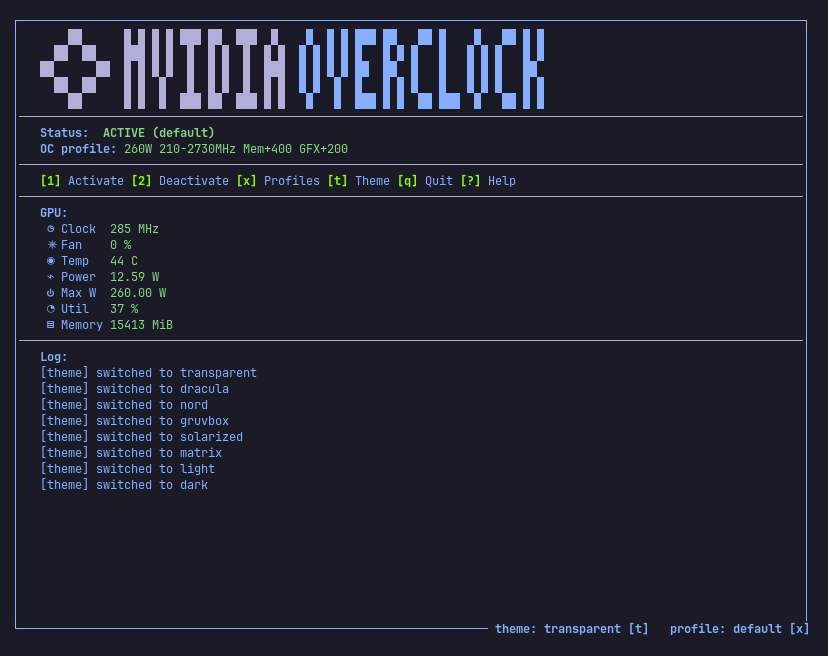
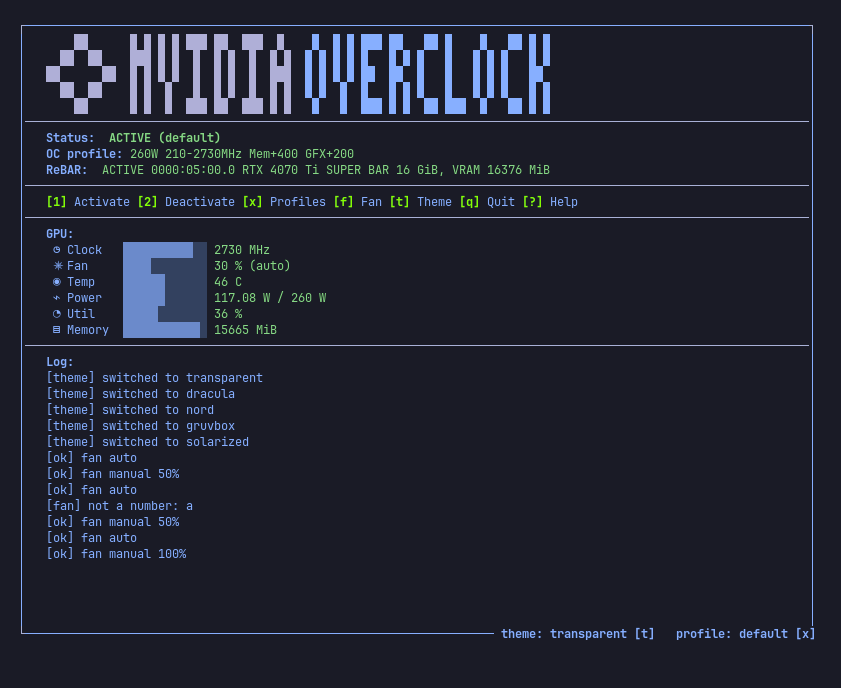
TUI: fan control via fan_control.py
- new self-contained fan_control.py (pynvml): status / set <PCT> / auto,
  applies the % to every fan NVML reports, best-effort per fan
- TUI 'f' key (sudo): prompt a % or 'auto'; fan row shows the (auto)/
  (manual) mode tag polled every 2s on the telemetry cadence
- fan_state degrades to a plain fan % when pynvml is unavailable

Changed region(s): [[0.0, 0.0305, 0.9662, 0.9146], [0.5737, 0.9146, 0.9964, 0.9756], [0.936, 0.1524, 0.9662, 0.1829]]

diff --git a/gpu_tui.py b/gpu_tui.py
@@ -9,6 +9,7 @@ Keys:
   2 or d  -> Deactivate overclock
   n       -> Define and save a new OC profile
   x       -> Select which profile activation uses
+  f       -> Set fan speed (manual %, or 'auto' to revert) — needs sudo
   t       -> Cycle theme (saved between runs)
   q       -> Quit
   ?       -> Help overlay
@@ -35,6 +36,7 @@ ACTIVATE_SCRIPT = os.path.join(_HERE, "apply_overclock.py")
 DEACTIVATE_SCRIPT = os.path.join(_HERE, "reset_overclock.py")
 STATUS_MARKER = "/tmp/gpu_oc_active"   # apply_overclock.py writes the active profile name here
 REBAR_SCRIPT = os.path.join(_HERE, "rebar_check.py")
+FAN_SCRIPT = os.path.join(_HERE, "fan_control.py")
 
 # ============================================================
 #  OC PROFILES
@@ -332,6 +334,41 @@ def prepend_log(log: str, entry: str) -> str:
     return entry if not log else entry + "\n" + log
 
 
+def get_fan_state() -> dict:
+    """Fan mode/speed from fan_control.py status (JSON on stdout).
+
+    Read-only, so it runs on the 2s telemetry cadence like nvidia-smi.
+    Returns {} when the script is missing, pynvml is absent, or the GPU is
+    unavailable — the TUI then just shows the plain fan % (no mode tag).
+    """
+    try:
+        r = subprocess.run([sys.executable, FAN_SCRIPT, "status"],
+                           capture_output=True, text=True, timeout=5)
+    except Exception:
+        return {}
+    if r.returncode != 0:
+        return {}
+    try:
+        data = json.loads(r.stdout)
+    except ValueError:
+        return {}
+    return data if isinstance(data, dict) else {}
+
+
+def set_fan_manual(pct: int) -> tuple[int, str]:
+    """fan_control.py set <PCT> — all fans to a fixed speed (needs root)."""
+    r = subprocess.run([sys.executable, FAN_SCRIPT, "set", str(pct)],
+                       capture_output=True, text=True)
+    return r.returncode, (r.stderr or r.stdout).strip()
+
+
+def set_fan_auto() -> tuple[int, str]:
+    """fan_control.py auto — all fans back to the driver's auto curve."""
+    r = subprocess.run([sys.executable, FAN_SCRIPT, "auto"],
+                       capture_output=True, text=True)
+    return r.returncode, (r.stderr or r.stdout).strip()
+
+
 # ============================================================
 #  PROFILE WIZARDS
 # ============================================================
@@ -426,6 +463,7 @@ def main(stdscr):
     TELEMETRY_MS = 2000   # how often nvidia-smi is actually called
     stats, stats_at = {}, 0.0
     prev_stats = {}   # last sample, for the bar-fill lerp
+    fan_state = {}    # fan mode from fan_control.py, refreshed with stats
     # ReBAR: BAR size is fixed at boot — query once, not per tick
     rebar = get_rebar()
 
@@ -440,6 +478,7 @@ def main(stdscr):
         if now - stats_at >= TELEMETRY_MS / 1000:
             prev_stats = stats
             stats, stats_at = get_gpu_stats(), now
+            fan_state = get_fan_state()
 
         status_word = "ACTIVE" if active else "INACTIVE"
         if active and active_name:
@@ -453,8 +492,9 @@ def main(stdscr):
                 hint = ("[q] Quit [?] Help  (read-only: sudo needed for "
                         "OC / profiles)")
             else:
-                hint = ("[1] Activate [2] Deactivate [x] Profiles "
-                        "[t] Theme [q] Quit [?] Help")
+                hint = (
+                    "[1] Activate [2] Deactivate [x] Profiles "
+                    "[f] Fan [t] Theme [q] Quit [?] Help")
 
         help_text = (
             [
@@ -464,6 +504,7 @@ def main(stdscr):
                 "  x ...... open the Profiles menu (Esc/q close)",
                 "  1-9 .... pick a profile (while the menu is open)",
                 "  d ...... delete the picked profile (menu open)",
+                "  f ...... set fan speed (a %, or 'auto' to revert); sudo",
                 "  t ...... cycle color theme",
                 "  q / Esc . quit",
                 "  Esc+Enter cancels a prompt",
@@ -584,10 +625,15 @@ def main(stdscr):
 
                 pmax = _f(stats.get("power_max"))
                 limit = "" if pmax <= 0 else " / " + _trim0(stats["power_max"]) + " W"
+                # Fan mode tag from fan_control.py: ' (auto)' / ' (manual)'.
+                # Empty when the script/pynvml is unavailable (plain %).
+                fmode = fan_state.get("policy", "")
+                fan_tag = f" ({fmode})" if fmode else ""
                 telemetry = [
                     ("◷ Clock",  _bar(val("clock"), _f(stats.get("clock_max"))),
                      f"{stats['clock']} MHz"),
-                    ("✵ Fan",    _bar(val("fan"), 100), f"{stats['fan']} %"),
+                    ("✵ Fan",    _bar(val("fan"), 100),
+                     f"{stats['fan']} %{fan_tag}"),
                     ("◉ Temp",   _bar(val("temp"), 90), f"{stats['temp']} C"),
                     ("⌁ Power",  _bar(val("power"), pmax),
                      f"{stats['power']} W{limit}"),
@@ -649,7 +695,7 @@ def main(stdscr):
                 break
             continue
         if read_only and c in (ord("1"), ord("a"), ord("2"), ord("d"),
-                               ord("n"), ord("x"), ord("t")):
+                               ord("n"), ord("x"), ord("t"), ord("f")):
             # read-only: hint, no error, no write
             log = prepend_log(log, f"[readonly] '{chr(c)}' needs sudo")
             continue
@@ -706,6 +752,27 @@ def main(stdscr):
             theme = apply_theme(stdscr, next_theme(theme))
             save_theme(theme)
             log = prepend_log(log, f"[theme] switched to {theme}")
+        elif c == ord("f"):
+            # Fan speed: a % sets manual, 'auto' reverts to the driver curve,
+            # empty/Esc cancels. Needs root (set/auto fail cleanly otherwise).
+            res = prompt(stdscr, sh, sw,
+                         "Fan % (30-100, or 'auto' to revert)")
+            if res is None or res == "":
+                continue   # Esc or empty: cancel, no change
+            res = res.strip().lower()
+            if res == "auto":
+                rc, out = set_fan_auto()
+                log = prepend_log(log, "[ok] fan auto" if rc == 0
+                                  else f"[err] fan: {out}")
+            else:
+                try:
+                    pct = int(res)
+                except ValueError:
+                    log = prepend_log(log, f"[fan] not a number: {res}")
+                    continue
+                rc, out = set_fan_manual(pct)
+                log = prepend_log(log, f"[ok] fan manual {pct}%" if rc == 0
+                                  else f"[err] fan: {out}")
 
 # ============================================================
 

diff --git a/fan_control.py b/fan_control.py
@@ -1,0 +1,152 @@
+#!/usr/bin/env python3
+# SPDX-License-Identifier: GPL-3.0-or-later
+# Copyright (C) 2026 alystor007
+"""fan_control.py — read/set the GPU fan speed (NVML).
+
+The TUI shells out to this the same way it runs apply_overclock.py, so all
+pynvml calls stay in this file (the TUI itself has no pynvml dependency).
+
+Usage:
+  fan_control.py            status (default) — print JSON and exit 0
+  fan_control.py status     same as above
+  fan_control.py set <PCT>  set a manual fan speed on ALL fans (needs root)
+  fan_control.py auto       return all fans to the driver's auto curve (root)
+
+Notes:
+  * "All fans" = every index nvmlDeviceGetNumFans reports (on a 3-fan card
+    NVML typically exposes 2 PWM channels; both are set, which covers every
+    physical fan the driver reports).
+  * set/auto need root (sudo) — the TUI runs them under sudo, so the
+    subprocess inherits it. Non-root runs fail with a permission error.
+  * status is read-only and works without root.
+"""
+import json
+import sys
+from pynvml import (
+    NVMLError,
+    NVML_FAN_POLICY_MANUAL,
+    NVML_FAN_POLICY_TEMPERATURE_CONTINOUS_SW,
+    nvmlDeviceGetFanControlPolicy_v2,
+    nvmlDeviceGetFanSpeed,
+    nvmlDeviceGetFanSpeedRPM,
+    nvmlDeviceGetMinMaxFanSpeed,
+    nvmlDeviceGetNumFans,
+    nvmlDeviceSetFanControlPolicy,
+    nvmlDeviceSetFanSpeed_v2,
+    nvmlDeviceGetHandleByIndex,
+    nvmlInit,
+    nvmlShutdown,
+)
+
+GPU_INDEX = 0   # primary GPU (same as apply_overclock.py)
+
+POLICY_NAMES = {
+    NVML_FAN_POLICY_MANUAL: "manual",
+    NVML_FAN_POLICY_TEMPERATURE_CONTINOUS_SW: "auto",
+}
+
+
+def _policy_name(p):
+    return POLICY_NAMES.get(p, f"unknown({p})")
+
+
+def status():
+    """Read fan state (read-only, no root needed). Prints JSON, exits 0."""
+    nvmlInit()
+    try:
+        gpu = nvmlDeviceGetHandleByIndex(GPU_INDEX)
+        fans = nvmlDeviceGetNumFans(gpu)
+        # Index 0 is representative: every PWM channel shares the auto target,
+        # so a single read stands in for the card as a whole.
+        speed = nvmlDeviceGetFanSpeed(gpu)
+        policy = _policy_name(nvmlDeviceGetFanControlPolicy_v2(gpu, 0))
+        try:
+            rpm = nvmlDeviceGetFanSpeedRPM(gpu)
+        except NVMLError:
+            rpm = None
+        try:
+            mn, mx = nvmlDeviceGetMinMaxFanSpeed(gpu)
+        except NVMLError:
+            mn = mx = None
+    finally:
+        nvmlShutdown()
+    out = {
+        "speed": speed,
+        "rpm": rpm,
+        "policy": policy,
+        "fans": fans,
+        "min": mn,
+        "max": mx,
+    }
+    print(json.dumps(out))
+
+
+def set_speed(pct):
+    """Set a manual fan speed on every fan. Best-effort per fan."""
+    # validate against the allowed range, then apply to each reported fan
+    nvmlInit()
+    try:
+        gpu = nvmlDeviceGetHandleByIndex(GPU_INDEX)
+        try:
+            mn, mx = nvmlDeviceGetMinMaxFanSpeed(gpu)
+            if mn is not None and mx is not None and not (mn <= pct <= mx):
+                sys.exit(f"[fan] {pct}% is out of range ({mn}-{mx}%)")
+        except NVMLError:
+            pass   # can't read range; let the set call report the real error
+        indices = list(range(nvmlDeviceGetNumFans(gpu)))
+        failures = []
+        for i in indices:
+            try:
+                nvmlDeviceSetFanSpeed_v2(gpu, i, pct)
+            except NVMLError as e:
+                failures.append((i, str(e)))
+        if failures:
+            detail = "; ".join(f"fan{i}: {msg}" for i, msg in failures)
+            sys.exit(f"[fan] set {pct}% failed ({detail})")
+        print(f"[fan] manual {pct}% ({len(indices)} fan(s))")
+    finally:
+        nvmlShutdown()
+
+
+def to_auto():
+    """Return every fan to the driver's auto curve. Best-effort per fan."""
+    nvmlInit()
+    try:
+        gpu = nvmlDeviceGetHandleByIndex(GPU_INDEX)
+        indices = list(range(nvmlDeviceGetNumFans(gpu)))
+        failures = []
+        for i in indices:
+            try:
+                nvmlDeviceSetFanControlPolicy(gpu, i,
+                                              NVML_FAN_POLICY_TEMPERATURE_CONTINOUS_SW)
+            except NVMLError as e:
+                failures.append((i, str(e)))
+        if failures:
+            detail = "; ".join(f"fan{i}: {msg}" for i, msg in failures)
+            sys.exit(f"[fan] auto failed ({detail})")
+        print(f"[fan] auto ({len(indices)} fan(s))")
+    finally:
+        nvmlShutdown()
+
+
+def main():
+    args = sys.argv[1:]
+    cmd = args[0] if args else "status"
+    if cmd in ("status",):
+        status()
+    elif cmd == "set":
+        if len(args) != 2:
+            sys.exit("[fan] usage: fan_control.py set <PCT>")
+        try:
+            pct = int(args[1])
+        except ValueError:
+            sys.exit(f"[fan] not a number: {args[1]}")
+        set_speed(pct)
+    elif cmd == "auto":
+        to_auto()
+    else:
+        sys.exit(f"[fan] unknown command: {cmd}")
+
+
+if __name__ == "__main__":
+    main()

diff --git a/README.md b/README.md
@@ -1,7 +1,8 @@
 # Nvidia TUI Overclocker
 
 A lazydocker-style terminal UI for NVIDIA GPU overclocking, with live GPU
-telemetry, savable OC profiles, and a themeable interface.
+telemetry (bar meters), savable OC profiles, fan control, and a themeable
+interface.
 
 ![Nvidia TUI Overclocker](nvidia-tui-overclocker.png)
 
@@ -12,6 +13,7 @@ telemetry, savable OC profiles, and a themeable interface.
 | `gpu_tui.py` | The TUI (run this). Live stats, profile menu, themes, action log. |
 | `apply_overclock.py` | Applies the selected OC profile (also usable standalone). |
 | `reset_overclock.py` | Restores factory defaults: power limit, locked clocks, clock offsets. |
+| `fan_control.py` | Reads/sets the GPU fan speed (drives the TUI's `f` key). |
 | `rebar_check.py` | Checks whether Resizable BAR (ReBAR) is active; also shown in the TUI. |
 
 ## Requirements
@@ -55,6 +57,7 @@ python3 rebar_check.py                       # ReBAR status (0 active, 1 not, 2 
 | `n` | Define + save a new profile (menu open) |
 | `d` | Delete the picked profile (menu open) |
 | `t` | Cycle color theme |
+| `f` | Set fan speed (manual %, or `auto` to revert) — needs sudo |
 | `?` / `h` | Help overlay |
 | `q` / `Esc` | Close menu / quit |
 
@@ -88,6 +91,15 @@ check reads BAR sizes from `/sys/bus/pci`, so it works without root or
 even a GPU driver; the status is queried once at startup, since the BAR
 size is fixed at boot.
 
+## Fan control
+
+Press `f` and enter a percentage (e.g. `60`) to pin all fans to that speed
+in manual mode, or `auto` to restore the driver's temperature curve. The
+Fan row tags the current mode inline — `45 % (manual)` / `45 % (auto)` —
+and falls back to a plain percentage when the script can't read the mode.
+Setting a speed needs root (the TUI runs `fan_control.py` under sudo);
+reading fan status does not.
+
 ## How the overclock works
 
 A profile is three cooperating controls, all applied via NVML:
@@ -96,7 +108,9 @@ A profile is three cooperating controls, all applied via NVML:
   draw more than this, so the power management algorithm backs the clock
   off whenever the limit is hit. This is the main lever: a well-chosen
   limit gives most of the performance for far less heat than chasing
-  clocks.
+  clocks. The TUI shows the active limit inline on the Power row —
+  `247 W / 260 W` (current draw / limit) — instead of a separate
+  max-power row.
 
 - **Clock range** (`clock_min` .. `clock_max`) — the GPU's graphics clock
   is locked inside this window. It cannot drop below `clock_min` (no
